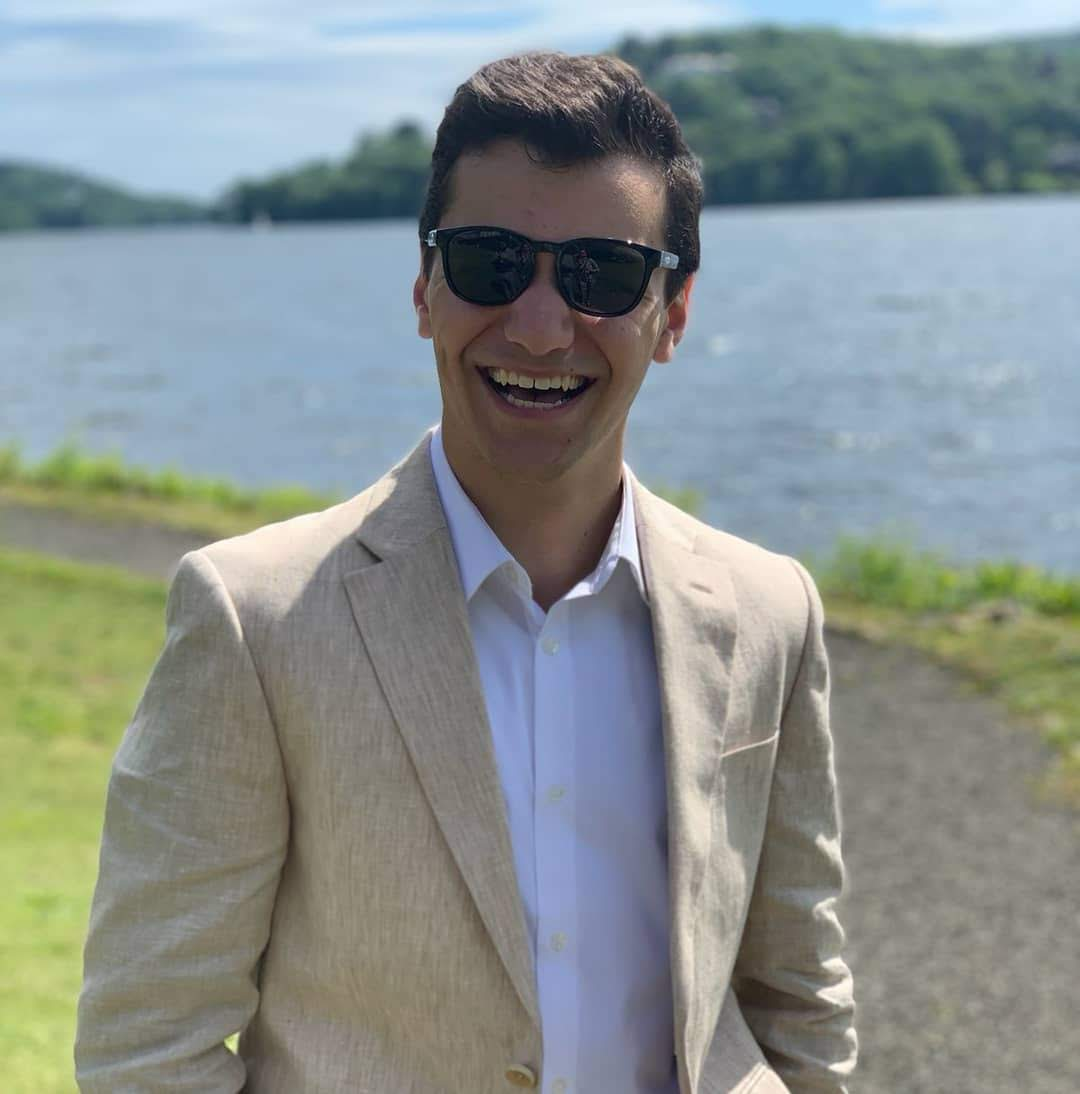
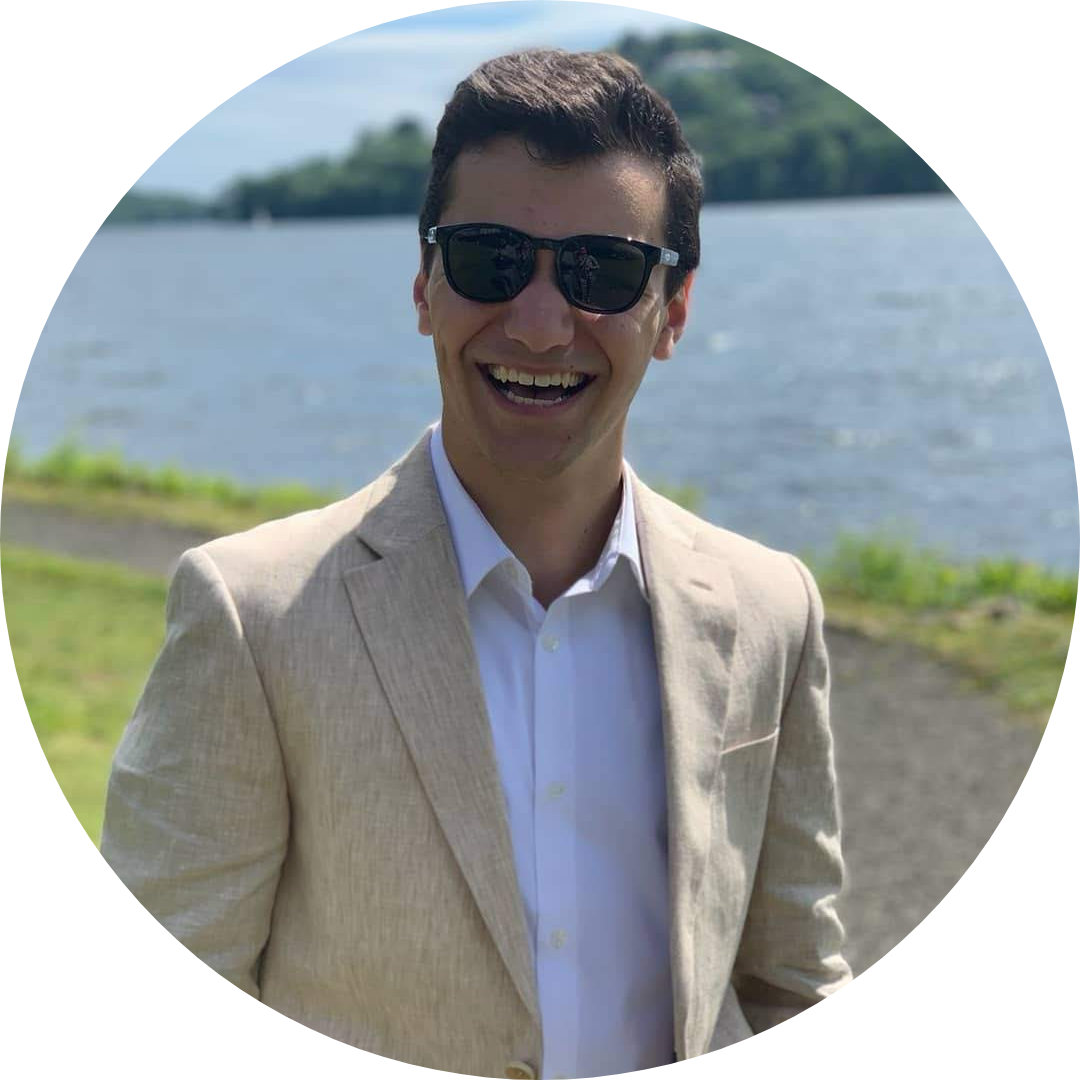
sidebar implementation

diff --git a/style.css b/style.css
@@ -14,10 +14,12 @@ body {
     font-family: sans-serif;
     text-align: center;
     margin: 0 auto;
-    padding-bottom: 15vh;
+    padding-bottom: 10vh;
+    overflow-x: hidden;
 }
 header {
     padding-top: 5px;
+    display: none;
     /* background-color: var(--main-theme); */
     
 }
@@ -63,9 +65,9 @@ p.center {
 a:hover {
     border-bottom: solid 1.5px var(--main-theme);
 }
-a.icon:hover i, a.icon:hover {
+a.icon:hover i {
     color: var(--main-theme);
-    border-bottom: none;
+    
 }
 .nearicon:hover {
     color:white;
@@ -77,9 +79,20 @@ a.icon:hover i, a.icon:hover {
 
 
 #wrapper {
-    max-width: 1024px;
+    max-width: 960px;
     margin: 0 auto;
     text-align: center;
+    padding-bottom: 100px;
+}
+#outerwrapper {
+    margin:0;
+    width: calc(100vw - 230px);
+    position: absolute;
+    z-index: 2;
+    right:0;
+    
+    
+    
 }
 
 h1 {
@@ -103,10 +116,11 @@ img.center {
 
 /* bio and intro section */
 .profile {
-    width: 250px;
+    width: 150px;
     padding: 1%;
     padding-top: 1%;
     border-radius: 8%;
+    text-align: center;
     
 }
 .profiletext {
@@ -206,21 +220,54 @@ footer {
   position: absolute;
   left: 0;
   bottom: 0;
-  width: 100vw;
+  width: 100%;
+  height: 100px;
   background-color: #555;
   color: #fff;
-  text-align: center;
+    
+}
+
+.sidenav {
+  height: 100%;
+  width: 230px;
+  position: fixed;
+  z-index: 1;
+  top: 0;
+  left: 0;
+  background-color: var(--main-theme);
+  overflow-x: hidden;
+  padding-top: 20px;
+  margin-right: 1%;
+    color: white;
+}
+
+.sidenav a {
+  padding: 6px 8px 6px 16px;
+  text-decoration: none;
+  font-size: 25px;
+  color: white;
+  display: block;
+}
+
+.sidenav a:hover {
+  color: #f1f1f1;
+}
+
+.sidenav i {
+    display: inherit;
 }
 
 
 /* mobile changes */
-@media only screen and (max-width: 658px) {
+@media only screen and (max-width: 901px) {
     .profile {
-        width: 100%;
+        width: 70%;
         margin-bottom: 30px;
     }
     #wrapper {
         width: 90%;
+        min-height: calc(100% - 100px);
+        margin-bottom: 1vh;
     }
     .projectpic {
         width: 100%;
@@ -234,10 +281,20 @@ footer {
         width: 100%;
     }
     
+    footer {
+        text-align: center;
+        position: absolute;
+        bottom: 0;
+        left: 0;
+        padding-bottom: 5vh;
+       
+        
+    }
     footer a {
         float: none;
         display: block;
         line-height: 1.5;
+        
     }
     footer a:hover {
         border-bottom: none;
@@ -249,6 +306,22 @@ footer {
     .pipe {
         display: none;
     }
+    .sidenav {
+        padding-top: 15px;
+        display: none;
+    }
+  .sidenav a {
+      font-size: 18px;
+    }
+    
+    #outerwrapper {
+        width: 100vw;
+    }
+    header {
+        display: block;
+        
+    }
+    
     
 }
 /* mobile changes end */

diff --git a/index.html b/index.html
@@ -9,7 +9,7 @@
         <meta name="viewport" content="width=device-width, initial-scale=1.0">
     </head>
     <body>
-       
+   
         <header>
             <h1 id="headertext"><span id="headername">Aaron Alberg</span><a href="mailto: aaronjalberg@gmail.com" class="icon"><i class="fas fa-envelope"></i></a>
             <a href="https://www.linkedin.com/in/aaron-alberg" target="_blank" class="icon"><i class="fab fa-linkedin"></i></a>
@@ -18,10 +18,22 @@
             
         </header>
 
+        
+<div class="sidenav">
+    <img src="files/profilepic.jpg" alt="profile picture" class="profile" id="rcorners">
+    <h2>Aaron Alberg</h2>
+    <i class="fas fa-map-marker-alt"></i>
+    <p>Chicago, IL</p>
+
+
+</div>
+
+   <div id="outerwrapper">
+        
 
         <div id="wrapper" class="center">
             <div id="bio">
-                <img src="files/profilepic.jpg" alt="profile picture" class="left profile" id="rcorners">
+                
                 <p class="profiletext">Hello! My name is Aaron Alberg. I'm currently studying <b class="blue">computer science</b> at the University of Illinois at Urbana-Champaign. I'm passionate about applying <b class="blue">human-centered design principles</b> to projects ranging from software development to community outreach. I believe the key to engineering the best solutions is having a <b class="blue">deep understanding of user needs</b>. </p>
             </div>
             <div id="projects">
@@ -44,7 +56,7 @@
             </div>
             
         </div>
-        <footer>
+       <footer>
             <p class="center foottext">
                 <a href="mailto: aaronjalberg@gmail.com" class="icon"><i class="icon fas fa-envelope"></i> <span class="nearicon">aaronjalberg@gmail.com</span>  </a> <span class="pipe">|</span> 
                 <a href="https://www.linkedin.com/in/aaron-alberg" target="_blank" class="icon"><i class="fab fa-linkedin"></i>  <span class="nearicon">linkedin.com/in/aaron-alberg</span>  </a><span class="pipe">|</span> 
@@ -52,5 +64,7 @@
             </p>
             <p class="center">© Aaron Alberg 2019</p>
         </footer>
+       </div>
+        
     </body>
 </html>
